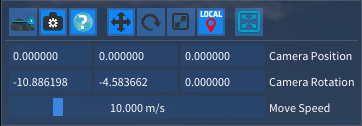
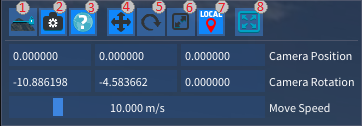
updated userguide and updated one of the images in the document

diff --git a/docs/UserGuide.md b/docs/UserGuide.md
@@ -7,7 +7,7 @@
 2. Unpack the entire contents of the .zip file
 3. If you have a computer capable of running OpenGL run `vaultClient_OpenGL.exe` otherwise for older machines `vaultClient.exe`. The OpenGL version will offer a smoother experience on most machines.
 
-### MacOS
+### macOS
 1. Download the latest DMG package that has been approved for use from your Euclideon Vault Server provider.
 2. Open the DMG and drag the "Euclideon Vault Client" icon onto the provided "Applications" icon
 4. Run the "Euclideon Vault Client" application from "Applications"
@@ -24,7 +24,7 @@
 The iOS and Android builds are not currently publicly available.
 
 ## Logging In
-After running the application you should see the Login screen below.
+After starting the application you will see the log-in screen below.
 
 ![Login Screen](images/loginscreen.png)
 
@@ -73,7 +73,7 @@ The following numbered sections will explain each of these features in full deta
 The scene viewport displays your scene. The Scene Explorer section (see section **3. Scene Explorer** below) will explain how to add models to your scene.
 
 ### Moving around the viewport
-> TIP: These settings are configurable in the [Input & Controls](#input-&-controls) settings menu.
+> TIP: These settings are configurable in the [Input and Controls](#input-and-controls) settings menu.
 
 Mouse Controls:
 - Holding the left mouse button down and moving the mouse will "tumble" (Turning without moving) the camera.
@@ -86,7 +86,7 @@ Default Keyboard Controls (with the "Scene" window focussed):
 - `W` and `S` strafe the camera forward and backward at the current Camera Move Speed.
 - `A` and `D` strafe the camera left and right at the current Camera Move Speed.
 - `R` and `F` strafe the camera up and down at the current Camera Move Speed.
-- `Spacebar` locks altitude, allowing user to pan and strafe the camera without changing camera height (Z-axis lock).
+- `Spacebar` locks altitude, allowing the user to pan and strafe the camera without changing the camera's height (Z-axis lock).
 
 ### Hotkeys
 - `F5` Toggles presentation mode, hiding the interface and going fullscreen.
@@ -135,7 +135,7 @@ The windows menu allows you to show or hide various windows in the Euclideon Vau
 
 The projects menu has a new scene button and if additional projects are available to your user, it will show those projects here as well.
 
-- "New Scene" will remove all items from your Scene
+- "New Scene" will remove all items from your Scene and create a new empty Scene.
 
 ### Status Bar
 The status bar shows a lot of useful information (not all of it will always be available).
@@ -147,8 +147,6 @@ The status bar shows a lot of useful information (not all of it will always be a
 
 The Scene Explorer window shows you the assets currently in your scene, and also allows the user to add UDS models and create new folders, points of interest, areas of interest and lines.
 
-> TIP: If you ever want to quickly clear the current scene, the "Projects" menu has a "New Scene" button that will remove everything from the scene.
-
 ### Quick Action Menu
 The buttons across the top of the Scene Explorer allow quick access to add or remove from the scene. From left to right:
 - `Add UDS` (hotkey `Ctrl + U`) This button opens the dialog box to add a UDS model to the scene. The Path/URL can include files on the local drives, network drives, UNC Paths, HTTP, HTTPS, FTP & FTPS.
@@ -158,6 +156,8 @@ The buttons across the top of the Scene Explorer allow quick access to add or re
 - `Add Lines` __This button is not enabled in this version of Euclideon Vault Client.__
 - `Add Folder` Adds a folder to the scene explorer. This can help with organizing your scene.
 - `Delete` (hotkey `Delete`) This deletes all selected items from the scene
+
+> TIP: If you ever want to quickly clear the current scene, the "Projects" menu has a "New Scene" option that will remove everything from the scene.
 
 ### Scene Items
 
@@ -180,7 +180,7 @@ Single clicking without `Ctrl` will deselect all items and select just the item 
 
 ##### Reorganizing the scene
 
-The items in the scene explorer can be reordered by holding left-click and dragging them around. A yellow line indicates where the item will be after you release it.
+Items or groups of items in the scene explorer can be reordered by holding left-click and dragging them around. A yellow line indicates where the item(s) will be after you release them.
 
 > When dropping onto folders. It is best to open the folder you wish to drag into before starting the click-drag operation.
 
@@ -194,7 +194,9 @@ There are a number of ways to add models to the scene.
 ## 4. Settings
 ![Settings](images/settings.png)
 
-The settings window has five? subheadings which allow the user to customise and control how the vault client looks and operates. The subheading can be opened by left-clicking on the arrows to the left.
+The settings window has five subheadings which allow the user to customise and control how the vault client looks and operates. The subheading can be opened by left-clicking on the arrows to the left.
+
+>TIP: To restore all default values for any of these settings, simply right-click on the subheading and then click on `restore defaults`
 
 #### Appearance
 
@@ -202,10 +204,10 @@ The settings window has five? subheadings which allow the user to customise and 
 
 Here the user can adjust several settings that change the appearance of the client:
 
-  - A visual theme can be chosen to change the overall colour scheme, options are Light and Dark.???
-  - The user can choose to display diagnostic information, such as FPS???
+  - A visual theme can be chosen to change the overall colour scheme, options are Light or Dark.
+  - The user can choose to display diagnostic information, such as the frame-rate and model bounds.
   - The user can choose to display advanced GIS settings in the top-right corner.
-  - The FPS limit of the client when running in the background can be toggled???
+  - The user can choose to limit the FPS when the client is running in the background, reducing interference with other open programs.
   - The compass in the bottom-right corner can be toggled on/off.
   - By default the UI is not visible in Presentation or Fullscreen mode (hotkey `F5`) but this setting can be changed.
   - The appearance of the mouse when anchoring to models or map tiles can be changed.
@@ -217,8 +219,8 @@ Here the user can adjust several settings that change the appearance of the clie
 
 Expanding this subheading allows the user to change settings that affect how they interface with the client:
 
-  - Can toggle on-screen mouse controls.
-  - Can change the UI to be touchscreen friendly ???
+  - The user can toggle on-screen mouse controls.
+  - The user can optimise the client for use with a touchscreen.
   - The X and Y axes can be inverted, which will affect camera movement with the mouse.
   - Mouse-controlled camera movement can be customised by the user, descriptions of the different mouse pivot bindings can be found in section **1. Scene Viewport** above.
 
@@ -233,17 +235,21 @@ These options allow the user to changes the camera's minimum and maximum viewing
 
 ![Maps & Elevation Settings](images/mapsandelevation.png)
 
-The top two checkboxes here are used to toggle Map Tiles and allow the mouse to lock to maps when using the mouse for camera movement.
+The first checkbox is used to toggle the visibility? of map tiles in the viewport.
+
+The second checkbox allows the mouse to lock to map tiles when moving the camera with the mouse.
 
 Tile Server allows overlay with existing maps??, clicking `Tile Server` prompts the user to enter a https:// address for background tiles, with the option to import .png or .jpg files.??
 
 ![Tile Server](images/tileserver.png)
 
-The transparency slider adjusts the overall visibility of objects allowing tiles to be more visible with vault objects in foreground.
+Map height adjusts the height of map tiles in the scene.
 
-Map height adjusts the height of tiles in relation to vault objects.
+Blending allows map tiles to overlay, underlay or feature in hybrid mode with existing objects.
 
-Blending with objects allows tile maps to overlay, underlay or feature in hybrid mode with existing vault objects.
+The transparency slider adjusts the transparency of the map tiles so they don't obscure the visibility of objects in the scene.
+
+The `Set to Camera Height` button can be used to set the height of the map tiles to the camera's current height. This can be used to place map tiles outside the default range of the slider of +/-1000m.?
 
 #### Visualization
 
@@ -264,28 +270,30 @@ All four display options are shown expanded below, each allows the user to speci
 ![Camera Information](images/camerabox.png)
 
 This pane contains several useful features, from left to right:
-  - `Lock Altitude` (hotkey `Spacebar`) will keep the camera's height constant when panning with the mouse or strafing with the keyboard (Z-axis lock).
-  - `Show Camera Information` will toggle display the camera position and rotation coordinates, and the camera move speed slider.
-  - `Show Projection Information` will toggle display SRID and MGA zone information in the top-right corner.
-  - `Gizmo Translate` (hotkey `B`) allows the user to move objects.
-  - `Gizmo Rotate` (hotkey `N`) allows the user to rotate objects.
-  - `Gizmo Scale` (hotkey `M`) allows the user to resize objects.
-  - `Gizmo Local Space` (hotkey `C`) toggles the gizmo between local and world space coordinates.
-  - `Fullscreen` (hotkey `F5`) toggles presentation mode, hiding the interface and going fullscreen.
+  1. `Lock Altitude` (hotkey `Spacebar`) will keep the camera's height constant when panning with the mouse or strafing with the keyboard (Z-axis lock).
+  2. `Show Camera Information` displays the camera position and rotation coordinates, and the camera move speed slider.
+  3. `Show Projection Information` displays SRID information in the top-right corner.
+  4. `Gizmo Translate` (hotkey `B`) sets the gizmo to translation mode, allowing the user to move objects.
+  5. `Gizmo Rotate` (hotkey `N`) sets the gizmo to rotation mode, allowing the user to rotate objects.
+  6. `Gizmo Scale` (hotkey `M`) sets the gizmo to scaling mode, allowing the user to resize objects.
+  7. `Gizmo Local Space` (hotkey `C`) toggles the gizmo's operational coordinate system between local coordinates (relative to the object) and world coordinates (relative to the world space).
+  8. `Fullscreen` (hotkey `F5`) toggles presentation mode and sets the client to fullscreen. By default this will hide the user interface.
 
 If supported in the scene (?), this area also displays the Latitude, Longitude and Altitude of the camera's current position.
 
 ## 6. Copyright & Compass
-Copyright data will be displayed in the bottom-right corner of the viewport. Copyright Data can be added to new models in the metadata subtab during conversion.
+Copyright data will be displayed in the bottom-right corner of the viewport. Copyright Data can be added to new models in the metadata textbox during conversion.
 
-A compass is also displayed in this corner, indicating the camera's current orientation within the global coordinate space. Compass by default is on, but the Appearance pane contains an on/off checkbox to toggle this setting.
+A compass is also displayed in this corner, indicating the camera's current orientation within the global coordinate space. Compass by default is on, but the Appearance pane contains an on/off checkbox to toggle this setting (see **Appearance** section in **4. Settings** above).
 
 ## 7. Watermark
-Watermarks can be viewed on each UDS file, by clicking on the UDS file in the Scene Explorer and then viewing the [Watermark] identification tag
+Watermarks can be viewed on each UDS file, by clicking on the UDS file in the Scene Explorer and then viewing the [Watermark] identification tag.
 
 ## 8. Convert Tab
 Converting to UDS file format can be done from within the Euclideon Vault Client as well. Loading a supported pointcloud format will open the "Convert" window if it isn't already open. A quick 'pre-parse' is done to detect the file format, supported attributes etc. By loading the start of the file, this stage also does an estimate of the total number of points the file has.
+
   - Supported file conversion formats (?????).
+
 > If you aren't able to find the convert tab, it can be displayed from the `Windows > Convert` flag, once selected the convert option will be displayed next to the Scene tab.
 
 ![Convert Window](images/convertpane.png)
@@ -344,8 +352,8 @@ The "X" button beside the convert job in the "Convert Jobs" section allows you t
 ### Settings On Disk
 Where the settings file is stored depends on your OS.
 - Windows: `%AppData%/Euclideon/client/settings.json`
-- macOS: `???`
-- Linux: `???`
+- macOS: `~/Library/Application Support/euclideon/client/settings.json`
+- Linux: `~/.local/share/euclideon/client/settings.json`
 - iOS: `???`
 - Android: `???`
 
